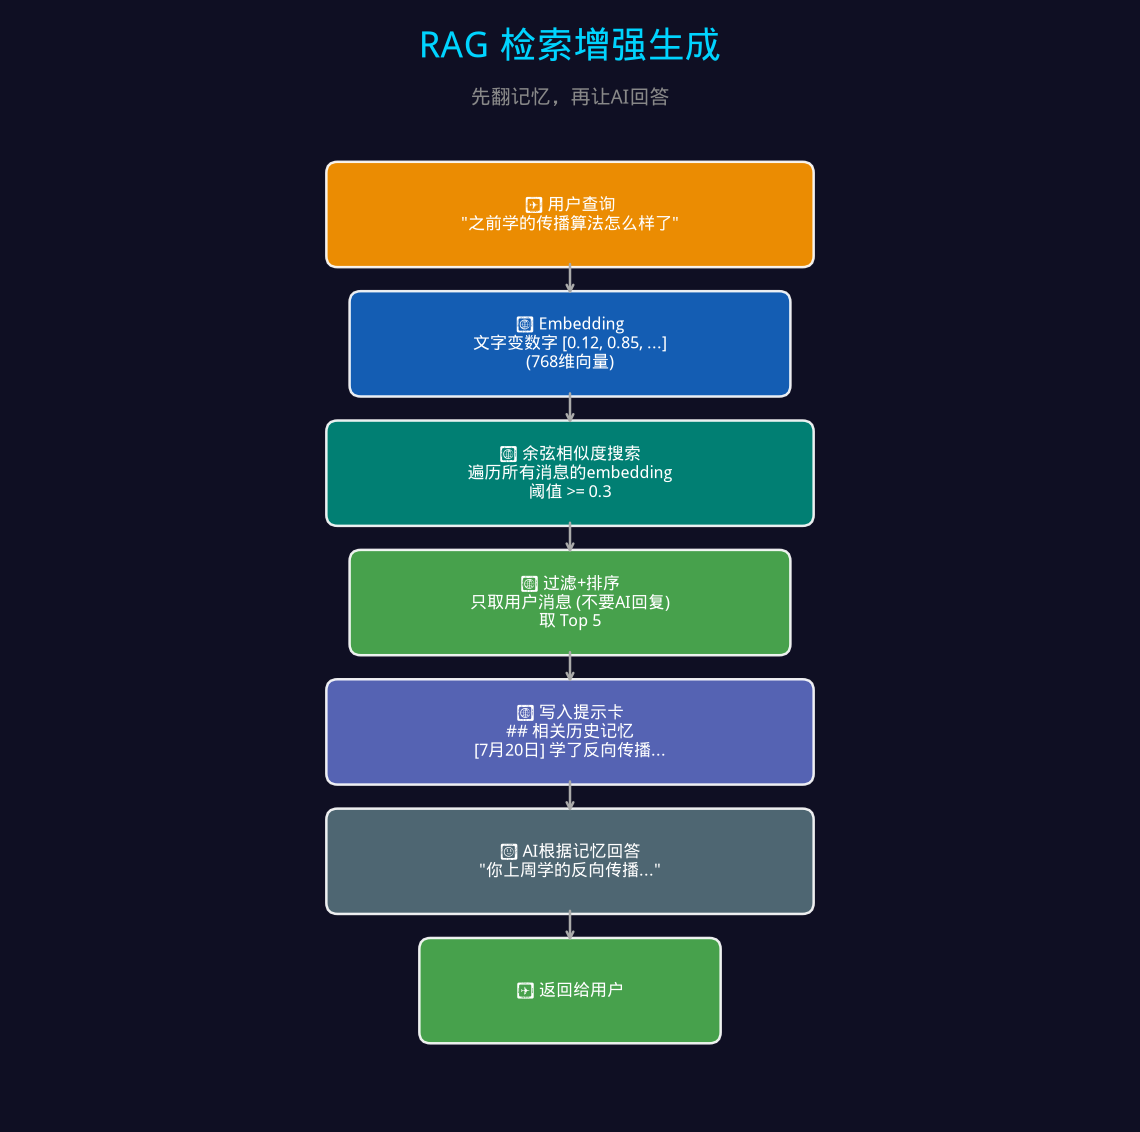
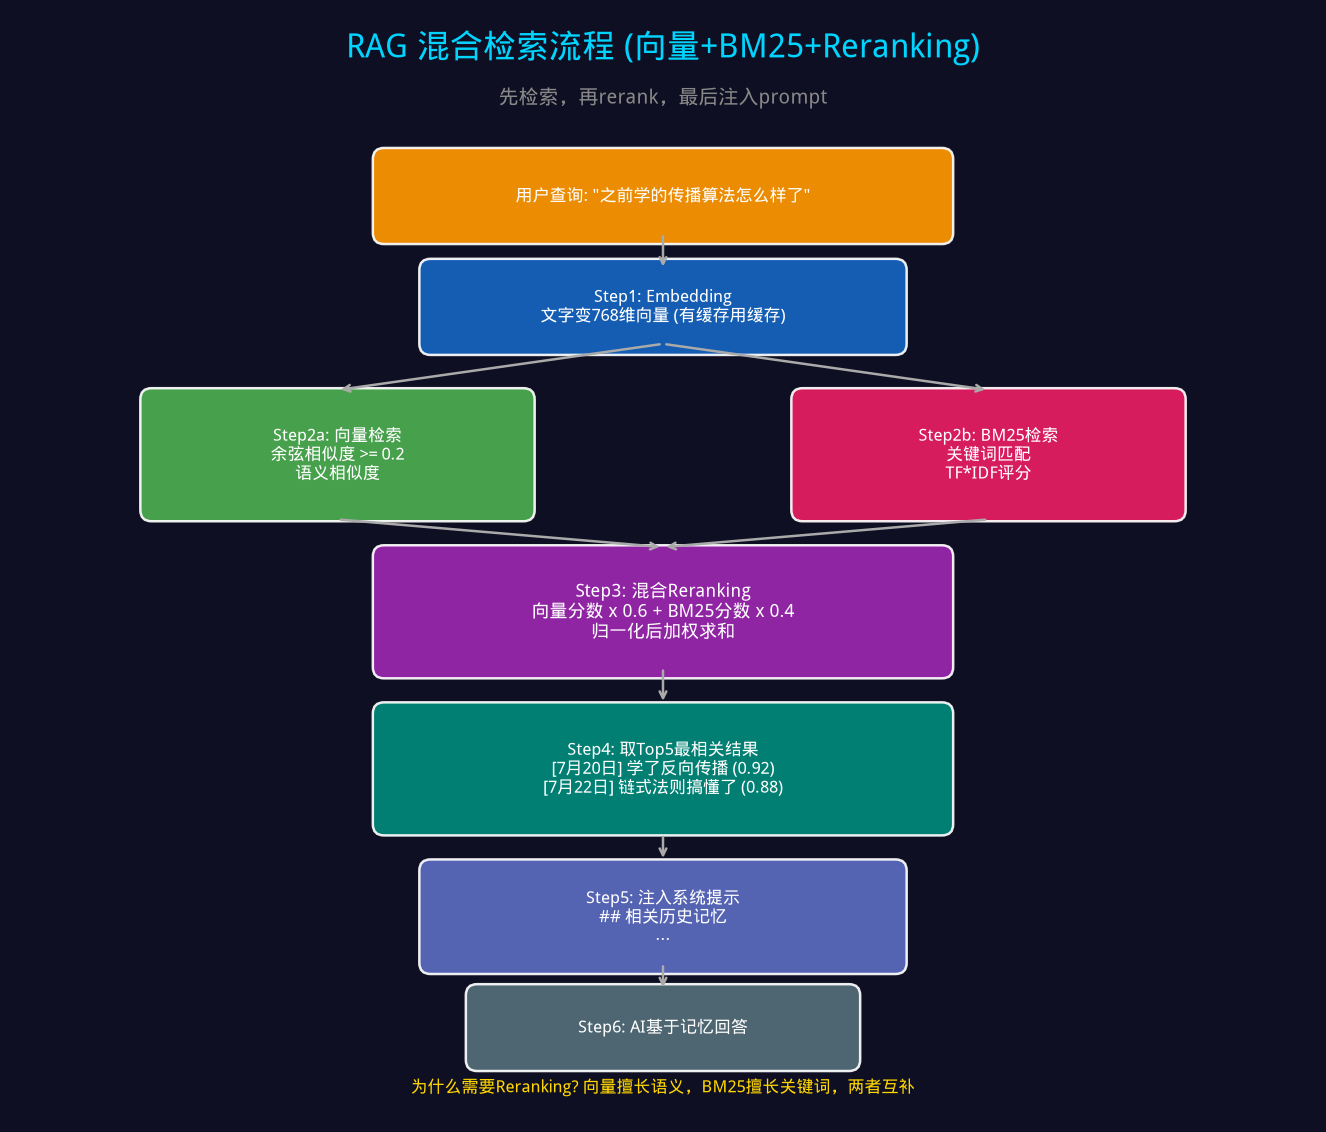
feat: RAG加入BM25+混合Reranking
新增:
- src/memory/bm25.py: BM25关键词检索 + HybridRetriever混合检索
- 向量权重0.6 + BM25权重0.4，归一化后加权求和

修改:
- handler.py: _get_related_memories 支持混合Reranking
- 面试手册: 更新RAG实现说明
- 图解: 更新04-RAG流程图

diff --git a/src/memory/bm25.py b/src/memory/bm25.py
@@ -1,0 +1,187 @@
+"""
+BM25 关键词检索模块
+
+用于RAG混合检索中的关键词匹配，与向量检索互补。
+BM25擅长精确关键词匹配，向量检索擅长语义相似度。
+"""
+import math
+import re
+from collections import Counter
+from typing import List, Tuple, Dict
+
+
+class BM25:
+    """BM25检索算法实现"""
+    
+    def __init__(self, k1: float = 1.5, b: float = 0.75):
+        """
+        Args:
+            k1: 词频饱和参数 (1.2-2.0)
+            b: 文档长度归一化参数 (0.75)
+        """
+        self.k1 = k1
+        self.b = b
+        self.docs: List[str] = []
+        self.doc_ids: List[str] = []
+        self.doc_freqs: List[Counter] = []
+        self.idf: Dict[str, float] = {}
+        self.avg_doc_len: float = 0
+        self.doc_lens: List[int] = []
+        
+    def _tokenize(self, text: str) -> List[str]:
+        """中文分词 (简单实现: 按字符+英文单词)"""
+        # 英文单词
+        english_words = re.findall(r'[a-zA-Z]+', text.lower())
+        # 中文字符 (2-4字组合)
+        chinese_chars = re.findall(r'[\u4e00-\u9fff]', text)
+        # 中文2字组合
+        bigrams = []
+        for i in range(len(chinese_chars) - 1):
+            bigrams.append(chinese_chars[i] + chinese_chars[i+1])
+        # 中文3字组合
+        trigrams = []
+        for i in range(len(chinese_chars) - 2):
+            trigrams.append(chinese_chars[i] + chinese_chars[i+1] + chinese_chars[i+2])
+        
+        return english_words + chinese_chars + bigrams + trigrams
+    
+    def index(self, doc_ids: List[str], docs: List[str]):
+        """建立索引"""
+        self.doc_ids = doc_ids
+        self.docs = docs
+        
+        # 分词
+        self.doc_freqs = []
+        self.doc_lens = []
+        df = Counter()  # 文档频率
+        
+        for doc in docs:
+            tokens = self._tokenize(doc)
+            freq = Counter(tokens)
+            self.doc_freqs.append(freq)
+            self.doc_lens.append(len(tokens))
+            for token in set(tokens):
+                df[token] += 1
+        
+        # 计算平均文档长度
+        self.avg_doc_len = sum(self.doc_lens) / len(self.doc_lens) if self.doc_lens else 0
+        
+        # 计算IDF
+        n = len(docs)
+        self.idf = {}
+        for token, freq in df.items():
+            # BM25 IDF公式
+            self.idf[token] = math.log((n - freq + 0.5) / (freq + 0.5) + 1)
+    
+    def search(self, query: str, top_k: int = 10) -> List[Tuple[str, float]]:
+        """
+        搜索最相关的文档
+        
+        Args:
+            query: 查询文本
+            top_k: 返回前k个结果
+            
+        Returns:
+            [(doc_id, score), ...] 按分数降序
+        """
+        if not self.docs:
+            return []
+        
+        query_tokens = self._tokenize(query)
+        scores = []
+        
+        for i, doc_id in enumerate(self.doc_ids):
+            score = 0
+            doc_len = self.doc_lens[i]
+            doc_freq = self.doc_freqs[i]
+            
+            for token in query_tokens:
+                if token not in doc_freq:
+                    continue
+                
+                tf = doc_freq[token]
+                idf = self.idf.get(token, 0)
+                
+                # BM25评分公式
+                tf_norm = (tf * (self.k1 + 1)) / (tf + self.k1 * (1 - self.b + self.b * doc_len / self.avg_doc_len))
+                score += idf * tf_norm
+            
+            if score > 0:
+                scores.append((doc_id, score))
+        
+        # 按分数降序排序
+        scores.sort(key=lambda x: -x[1])
+        return scores[:top_k]
+
+
+class HybridRetriever:
+    """混合检索器: 向量检索 + BM25 + Reranking"""
+    
+    def __init__(self, vector_weight: float = 0.6, bm25_weight: float = 0.4):
+        """
+        Args:
+            vector_weight: 向量检索权重
+            bm25_weight: BM25检索权重
+        """
+        self.vector_weight = vector_weight
+        self.bm25_weight = bm25_weight
+        self.bm25 = BM25()
+        self._indexed = False
+        
+    def index(self, doc_ids: List[str], docs: List[str]):
+        """建立BM25索引"""
+        self.bm25.index(doc_ids, docs)
+        self._indexed = True
+    
+    def rerank(
+        self,
+        query: str,
+        vector_results: List[Tuple[str, float]],
+        top_k: int = 5
+    ) -> List[Tuple[str, float]]:
+        """
+        混合Reranking: 结合向量分数和BM25分数
+        
+        Args:
+            query: 查询文本
+            vector_results: 向量检索结果 [(doc_id, vector_score), ...]
+            top_k: 返回前k个结果
+            
+        Returns:
+            [(doc_id, hybrid_score), ...] 按混合分数降序
+        """
+        if not self._indexed:
+            return vector_results[:top_k]
+        
+        # BM25检索
+        bm25_results = self.bm25.search(query, top_k=top_k * 2)
+        bm25_scores = {doc_id: score for doc_id, score in bm25_results}
+        
+        # 向量分数归一化到 [0, 1]
+        vector_scores = {doc_id: score for doc_id, score in vector_results}
+        if vector_scores:
+            max_vec = max(vector_scores.values())
+            min_vec = min(vector_scores.values())
+            vec_range = max_vec - min_vec if max_vec != min_vec else 1
+            vector_scores = {k: (v - min_vec) / vec_range for k, v in vector_scores.items()}
+        
+        # BM25分数归一化到 [0, 1]
+        if bm25_scores:
+            max_bm25 = max(bm25_scores.values())
+            min_bm25 = min(bm25_scores.values())
+            bm25_range = max_bm25 - min_bm25 if max_bm25 != min_bm25 else 1
+            bm25_scores = {k: (v - min_bm25) / bm25_range for k, v in bm25_scores.items()}
+        
+        # 计算混合分数
+        all_doc_ids = set(vector_scores.keys()) | set(bm25_scores.keys())
+        hybrid_scores = []
+        
+        for doc_id in all_doc_ids:
+            vec_score = vector_scores.get(doc_id, 0)
+            bm25_score = bm25_scores.get(doc_id, 0)
+            hybrid_score = self.vector_weight * vec_score + self.bm25_weight * bm25_score
+            hybrid_scores.append((doc_id, hybrid_score))
+        
+        # 按混合分数降序排序
+        hybrid_scores.sort(key=lambda x: -x[1])
+        return hybrid_scores[:top_k]

diff --git a/src/companion/handler.py b/src/companion/handler.py
@@ -595,9 +595,10 @@ class ConversationHandler:
         return "\n".join(lines) if lines else "（今日暂无任务记录）"
 
     async def _get_related_memories(self, query: str) -> str:
-        """语义检索相关历史记忆（使用 EmbeddingCache 持久化）"""
+        """混合检索相关历史记忆: 向量检索 + BM25 + Reranking"""
         try:
             from src.memory.embedding_cache import EmbeddingCache
+            from src.memory.bm25 import HybridRetriever
             cache = EmbeddingCache(self.llm, self.memory)
 
             # 1. 获取查询的 embedding
@@ -610,7 +611,6 @@ class ConversationHandler:
             # 2. 获取所有缓存的消息 embedding
             all_msg_embs = await cache.get_all_by_type("message")
             if not all_msg_embs:
-                # 如果没有缓存，先为最近50条消息建立索引
                 messages = await self.memory.get_messages(limit=50)
                 for msg in messages:
                     await cache.get_or_compute(
@@ -620,26 +620,34 @@ class ConversationHandler:
                     )
                 all_msg_embs = await cache.get_all_by_type("message")
 
-            # 3. 计算相似度
-            scored = []
+            # 3. 向量检索
             msg_map = {m.id: m for m in await self.memory.get_messages(limit=500)}
+            vector_scored = []
             for entity_id, emb in all_msg_embs:
                 sim = EmbeddingCache._cosine_similarity(query_emb, emb)
-                if sim >= 0.3:  # 降低阈值，更宽容
+                if sim >= 0.2:  # 降低阈值，让reranking来筛选
                     msg = msg_map.get(entity_id)
                     if msg and msg.role == "user":
-                        scored.append((msg, sim))
+                        vector_scored.append((msg.id, sim))
 
-            scored.sort(key=lambda x: -x[1])
-            top = scored[:5]
+            # 4. 混合Reranking (向量 + BM25)
+            retriever = HybridRetriever(vector_weight=0.6, bm25_weight=0.4)
+            user_msgs = [(m.id, m.content) for m in msg_map.values() if m.role == "user"]
+            if user_msgs:
+                doc_ids, docs = zip(*user_msgs)
+                retriever.index(list(doc_ids), list(docs))
+            
+            reranked = retriever.rerank(query, vector_scored, top_k=5)
 
-            if not top:
+            if not reranked:
                 return "（暂无相关记忆）"
 
             lines = ["相关对话："]
-            for msg, score in top:
-                time_str = msg.timestamp.strftime("%m月%d日")
-                lines.append(f"  [{time_str}] {msg.content[:100]}（相似度: {score:.2f}）")
+            for doc_id, score in reranked:
+                msg = msg_map.get(doc_id)
+                if msg:
+                    time_str = msg.timestamp.strftime("%m月%d日")
+                    lines.append(f"  [{time_str}] {msg.content[:100]}（相关度: {score:.2f}）")
             return "\n".join(lines)
         except Exception as e:
             logger.warning(f"语义检索失败（不影响回复）: {e}")
